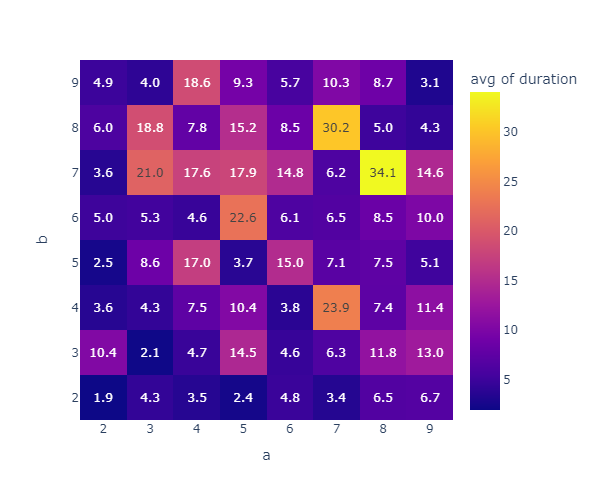
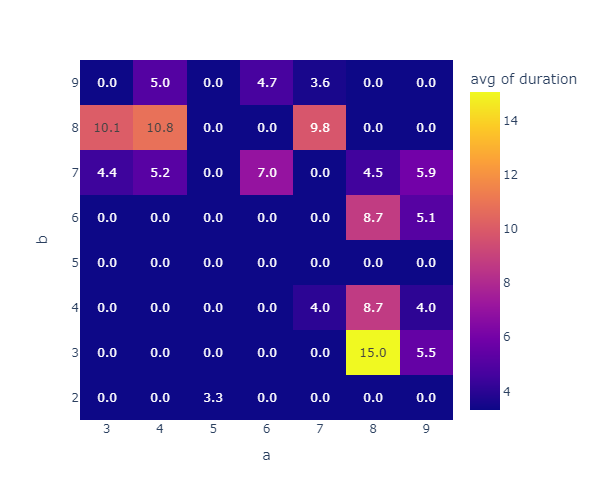
new winner stat tbl, remake stats by session

diff --git a/main.py b/main.py
@@ -13,14 +13,15 @@ def print_hi(name):
 
 
 def menu(user):
-    print('='*35)
+    print('=' * 35)
     menu_options = {
         1: 'Choose User',
         2: 'Crete New User',
         3: 'Scan Multiplication table',
         4: 'Mistakes and long answers',
-        5: 'Statistics for the last session',
-        6: 'Exit'
+        5: 'Statistics for your sessions',
+        6: 'Winners',
+        0: 'Exit'
     }
 
     for key in menu_options.keys():
@@ -36,7 +37,7 @@ def menu(user):
         if option == 1:
             # 1: 'Choose User'
             df_names = pd.read_sql_query(sql='SELECT user_id, name FROM users', con=con)
-            print('Choose your name:')
+            print('Choose your name or "0" to create new user:')
             print(tabulate(df_names, headers="keys", tablefmt='psql', showindex=False))
             try:
                 global user_id
@@ -67,16 +68,52 @@ def menu(user):
             repeat(user)
         elif option == 5:
             # 5: 'Statistics'
+            query = f"""
+            SELECT
+                session_id,
+                COUNT(result) - SUM(result) wrong_answers,
+                SUM(result) correct_answers,
+                ROUND(AVG(duration),1) avg_answer_time
+            FROM multiplication
+            WHERE user_id = {user}
+            GROUP BY session_id
+            """
+            print('This is your results')
+            print(tabulate(pd.read_sql_query(sql=query, con=con), headers="keys", tablefmt='psql', showindex=False))
+            # try/except block
+            session = int(input('Input the number of session to see more details and heatmap: '))
+
             last_session = cur.execute("""
                         SELECT max(session_id) max_session_id
                         FROM multiplication m 
                         WHERE user_id = (?)
                     """, [user]).fetchone()[0]
-            print_results(user,last_session)
+
+            print_results(user, session)
+            print_hi(user_name)
             menu(user)
 
         elif option == 6:
-            # 6: 'Exit'
+            query = """
+                    SELECT
+                        a.name Name,
+                        SUM(b.result) \"Solved examples\",
+                        COUNT(result) - SUM(result) \"Wrong answers\",
+                        SUM(result) \"Correct answers\",
+                        round(100.0*sum(result)/COUNT(result), 1) \"Success score\",
+                        ROUND(AVG(duration),1) \"Average answer time\"
+                    FROM 
+                        users a
+                        JOIN multiplication b on a.user_id = b.user_id
+                    GROUP BY a.name
+                    ORDER BY "Solved examples" DESC
+                    """
+            print(tabulate(pd.read_sql_query(sql=query, con=con), headers="keys", tablefmt='psql', showindex=False))
+            print_hi(user_name)
+            menu(user)
+
+        elif option == 0:
+            # 0: 'Exit'
             print('Thanks you, come back again!')
             exit()
         else:
@@ -175,7 +212,7 @@ def density_heatmap(query):
     fig1.write_image("duration_heatmap_tmp.png")
     fig2.write_image("result_heatmap_tmp.png")
 
-    os.startfile("duration_heatmap_tmp.png")
+    # os.startfile("duration_heatmap_tmp.png")
 
 
 def create_db():
@@ -218,9 +255,6 @@ def to_sql(us_id, ses_id, a, b, c, duration, result):
     con.commit()
 
 
-
-
-
 if __name__ == '__main__':
     con = sqlite3.connect('multi_db.db')
     cur = con.cursor()
@@ -228,6 +262,5 @@ if __name__ == '__main__':
     user_id = 0
     username = 'No Name'
     print_hi(username)
-    print('Put the cursor to console and press ENTER')
+    print('Put the cursor to console and choose user, press "1" ENTER')
     menu(user_id)
-

diff --git a/test.py b/test.py
@@ -3,28 +3,12 @@ import sqlite3
 import plotly.express as px
 from matplotlib import pyplot as plt
 import os
-
+from tabulate import tabulate
 
 con = sqlite3.connect('multi_db.db')
 
 df = pd.read_sql_query(sql='SELECT * FROM multiplication', con=con)
-
-fig1 = px.density_heatmap(df[df.user_id == 1], x='a', y='b', z="duration", histfunc="avg",
-                         nbinsx=9, nbinsy=9, text_auto='.1f', height=500, width=600)
-fig2 = px.density_heatmap(df[df.user_id == 1], x='a', y='b', z="result", histfunc="avg",
-                         nbinsx=9, nbinsy=9, text_auto='.1f', height=500, width=600)
-fig1.update_xaxes(dtick=1)
-fig1.update_yaxes(dtick=1)
-fig2.update_xaxes(dtick=1)
-fig2.update_yaxes(dtick=1)
-
-fig1.write_image("duration_heatmap_tmp.png")
-fig2.write_image("result_heatmap_tmp.png")
-
-# img = plt.imread('density_heatmap_tmp.png')
-# plt.imshow(img)
-# plt.show()
-
-# os.startfile("duration_heatmap_tmp.png")
-# os.startfile("result_heatmap_tmp.png")
-
+df_t = df.groupby('user_id').agg({'duration':['min','max','mean','median','std','sum','count']})
+df_t.columns= ['min','max','mean','median','std','sum','count']
+df_t = df_t.reset_index().round(decimals = 1)
+print(tabulate(df_t, headers="keys", tablefmt='psql'))
